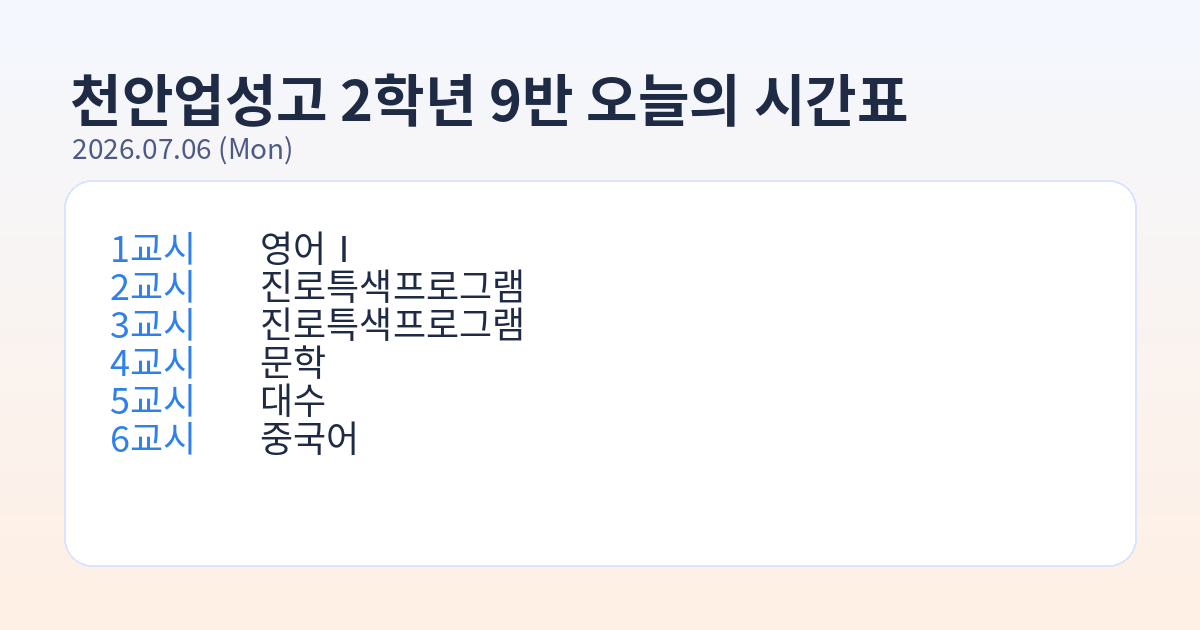
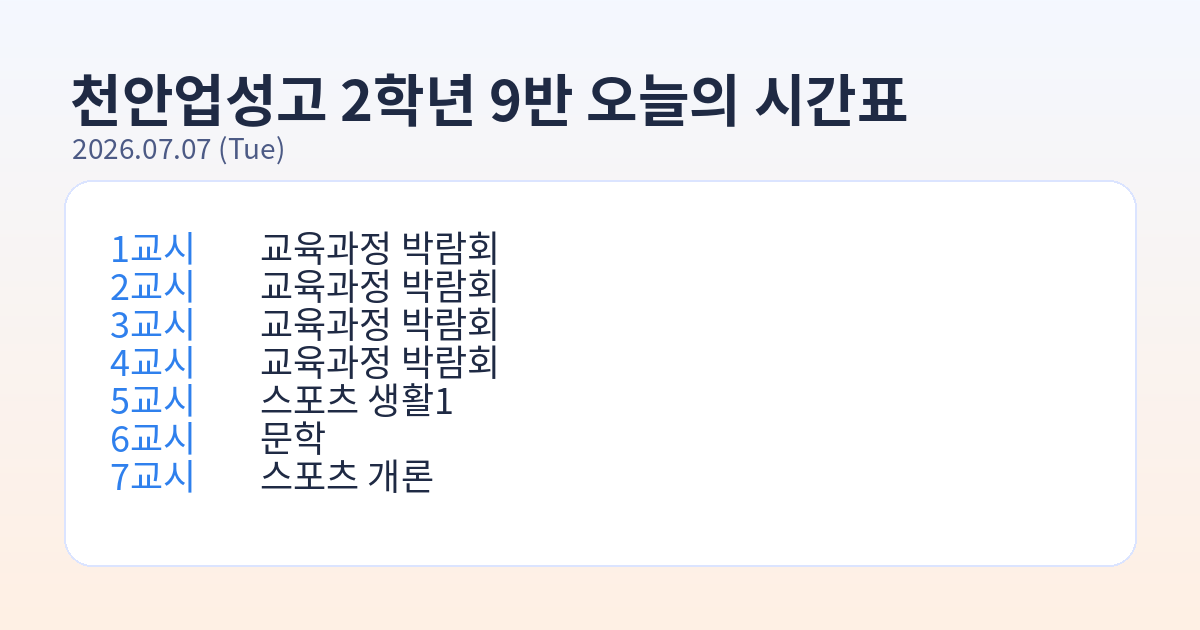
chore: update daily OG image

Changed region(s): [[0.2158, 0.3619, 0.4317, 0.7841], [0.1542, 0.2111, 0.2467, 0.2714], [0.0925, 0.7238, 0.185, 0.7841]]

diff --git a/index.html b/index.html
@@ -7,7 +7,7 @@
 
   <meta property="og:title" content="천안업성고 2-9 오늘의 시간표">
   <meta property="og:description" content="우리 반 오늘의 시간표를 확인하세요!">
-  <meta property="og:image" content="https://0115seed-sketch.github.io/timetable/assets/og/today_timetable.png?v=20260706-11">
+  <meta property="og:image" content="https://0115seed-sketch.github.io/timetable/assets/og/today_timetable.png?v=20260707">
   <meta property="og:image:width" content="1200">
   <meta property="og:image:height" content="630">
   <meta property="og:type" content="website">
